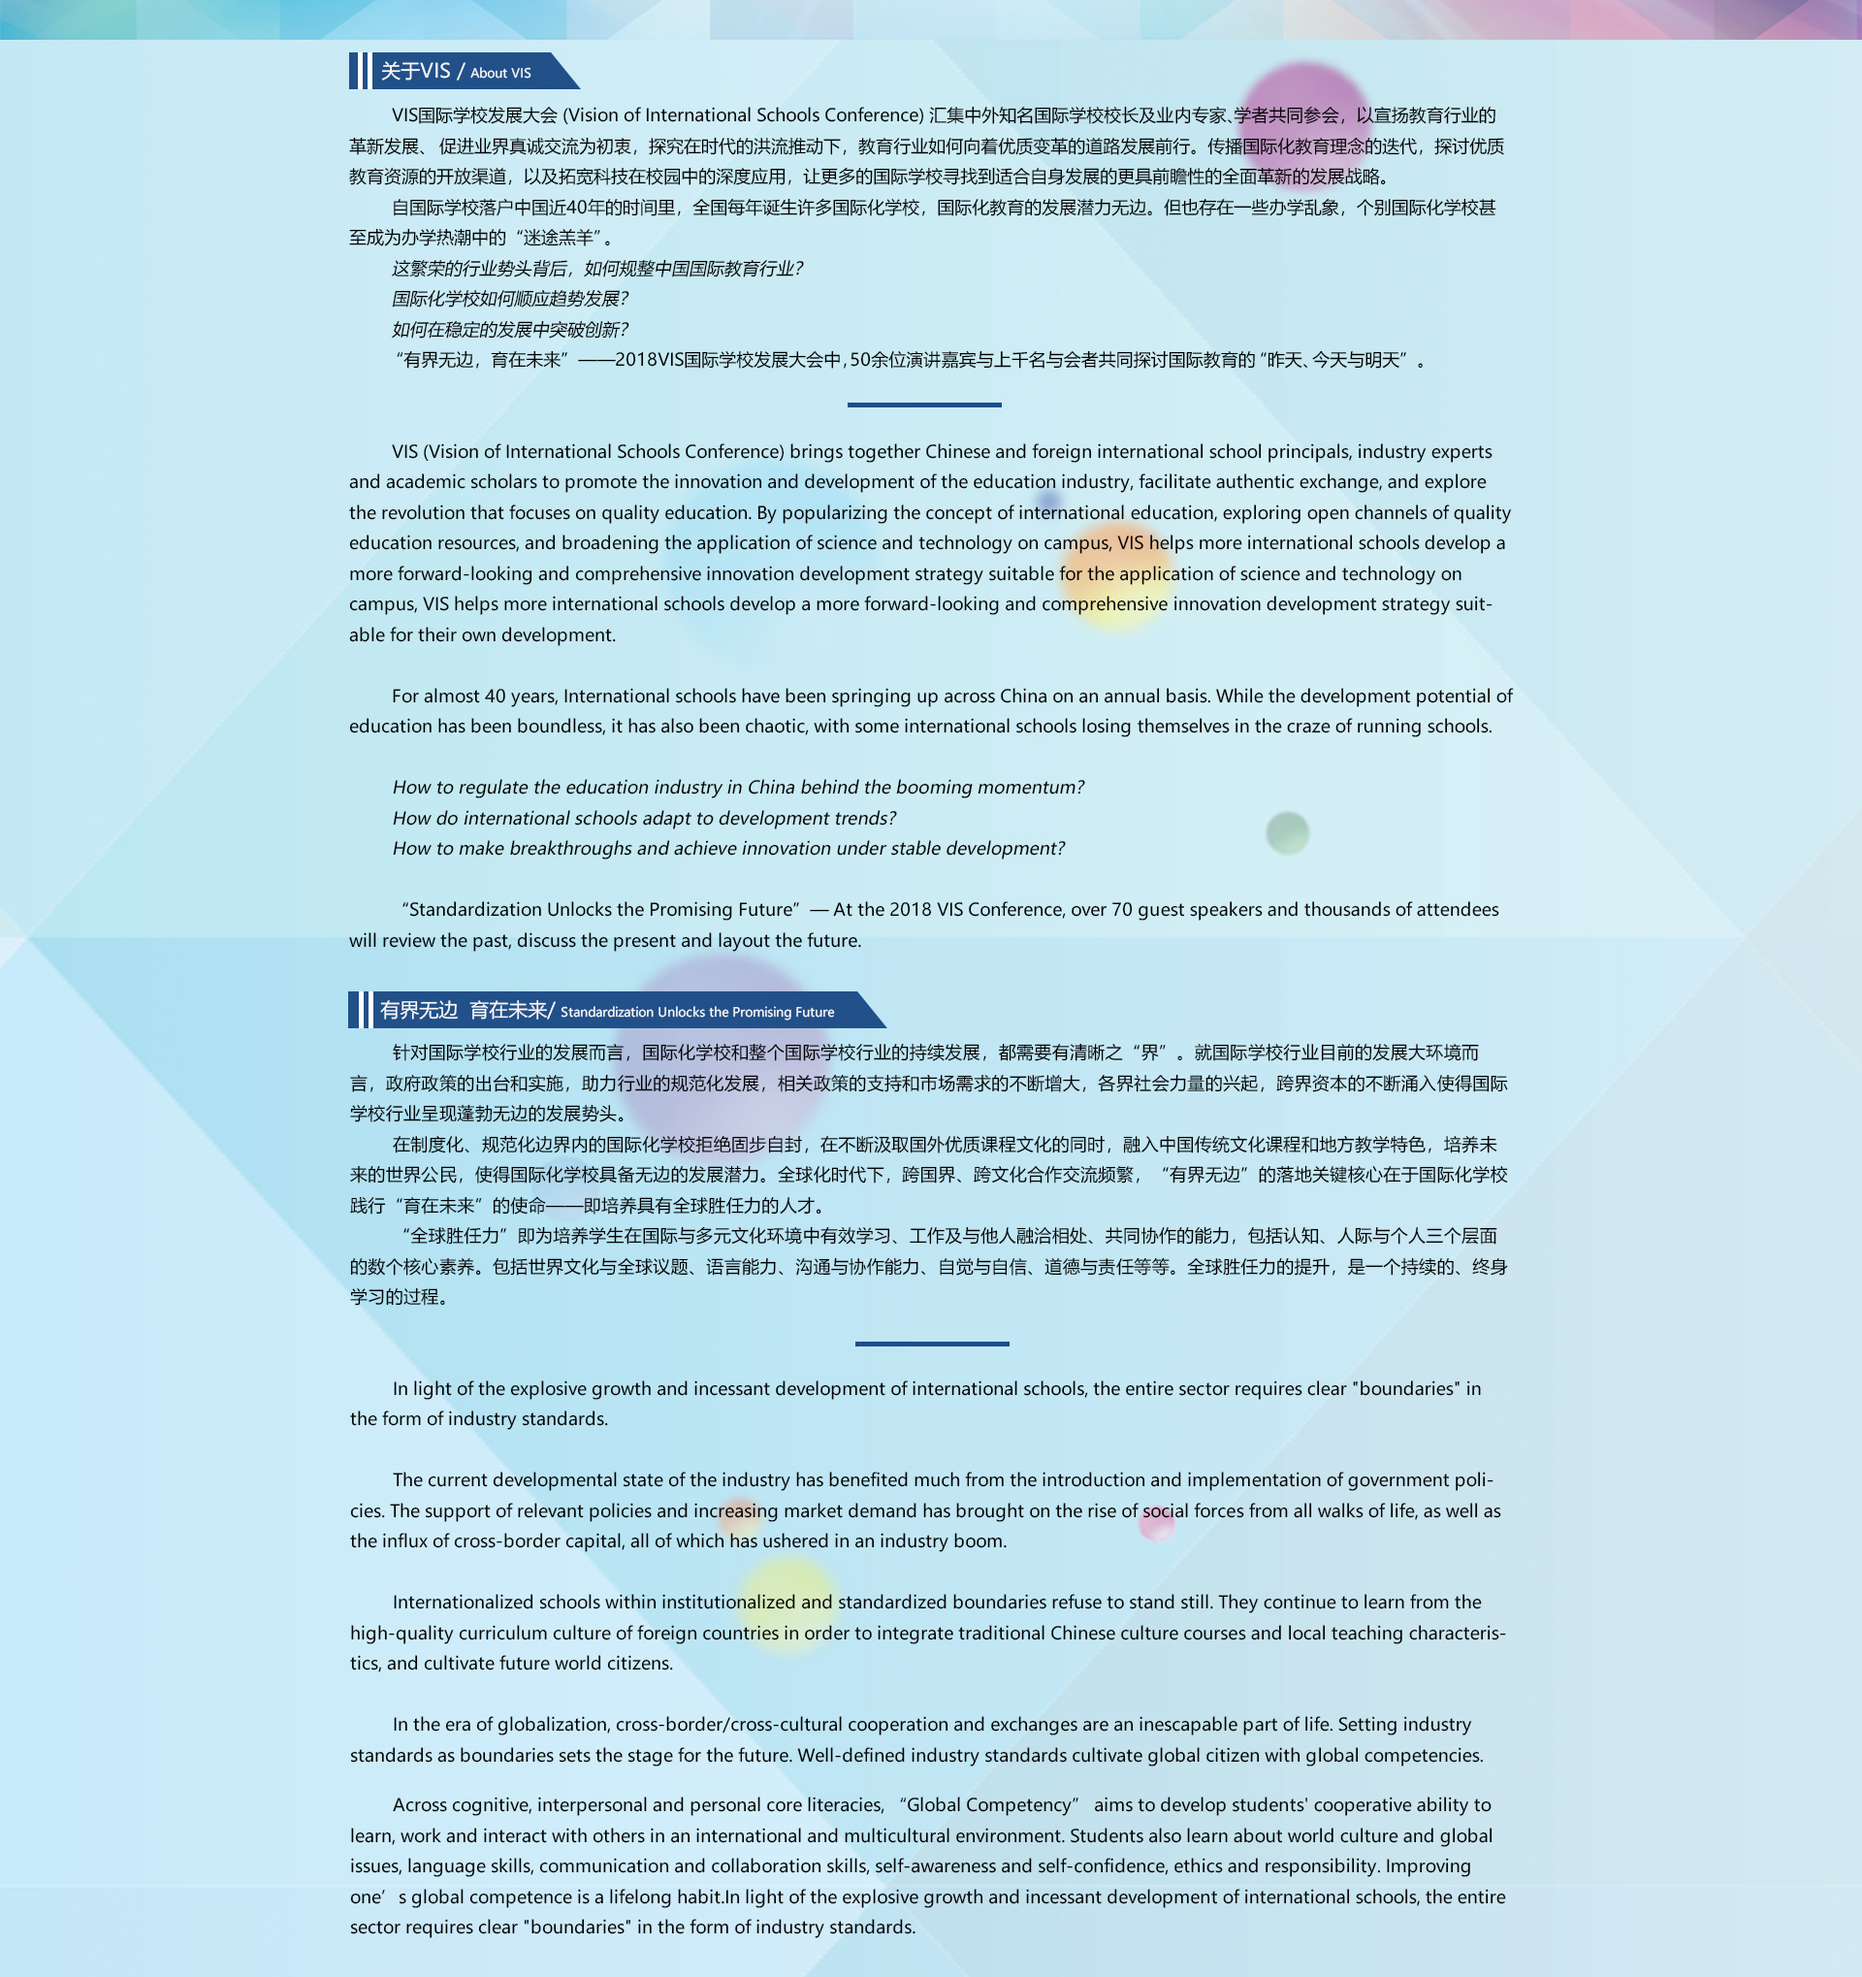
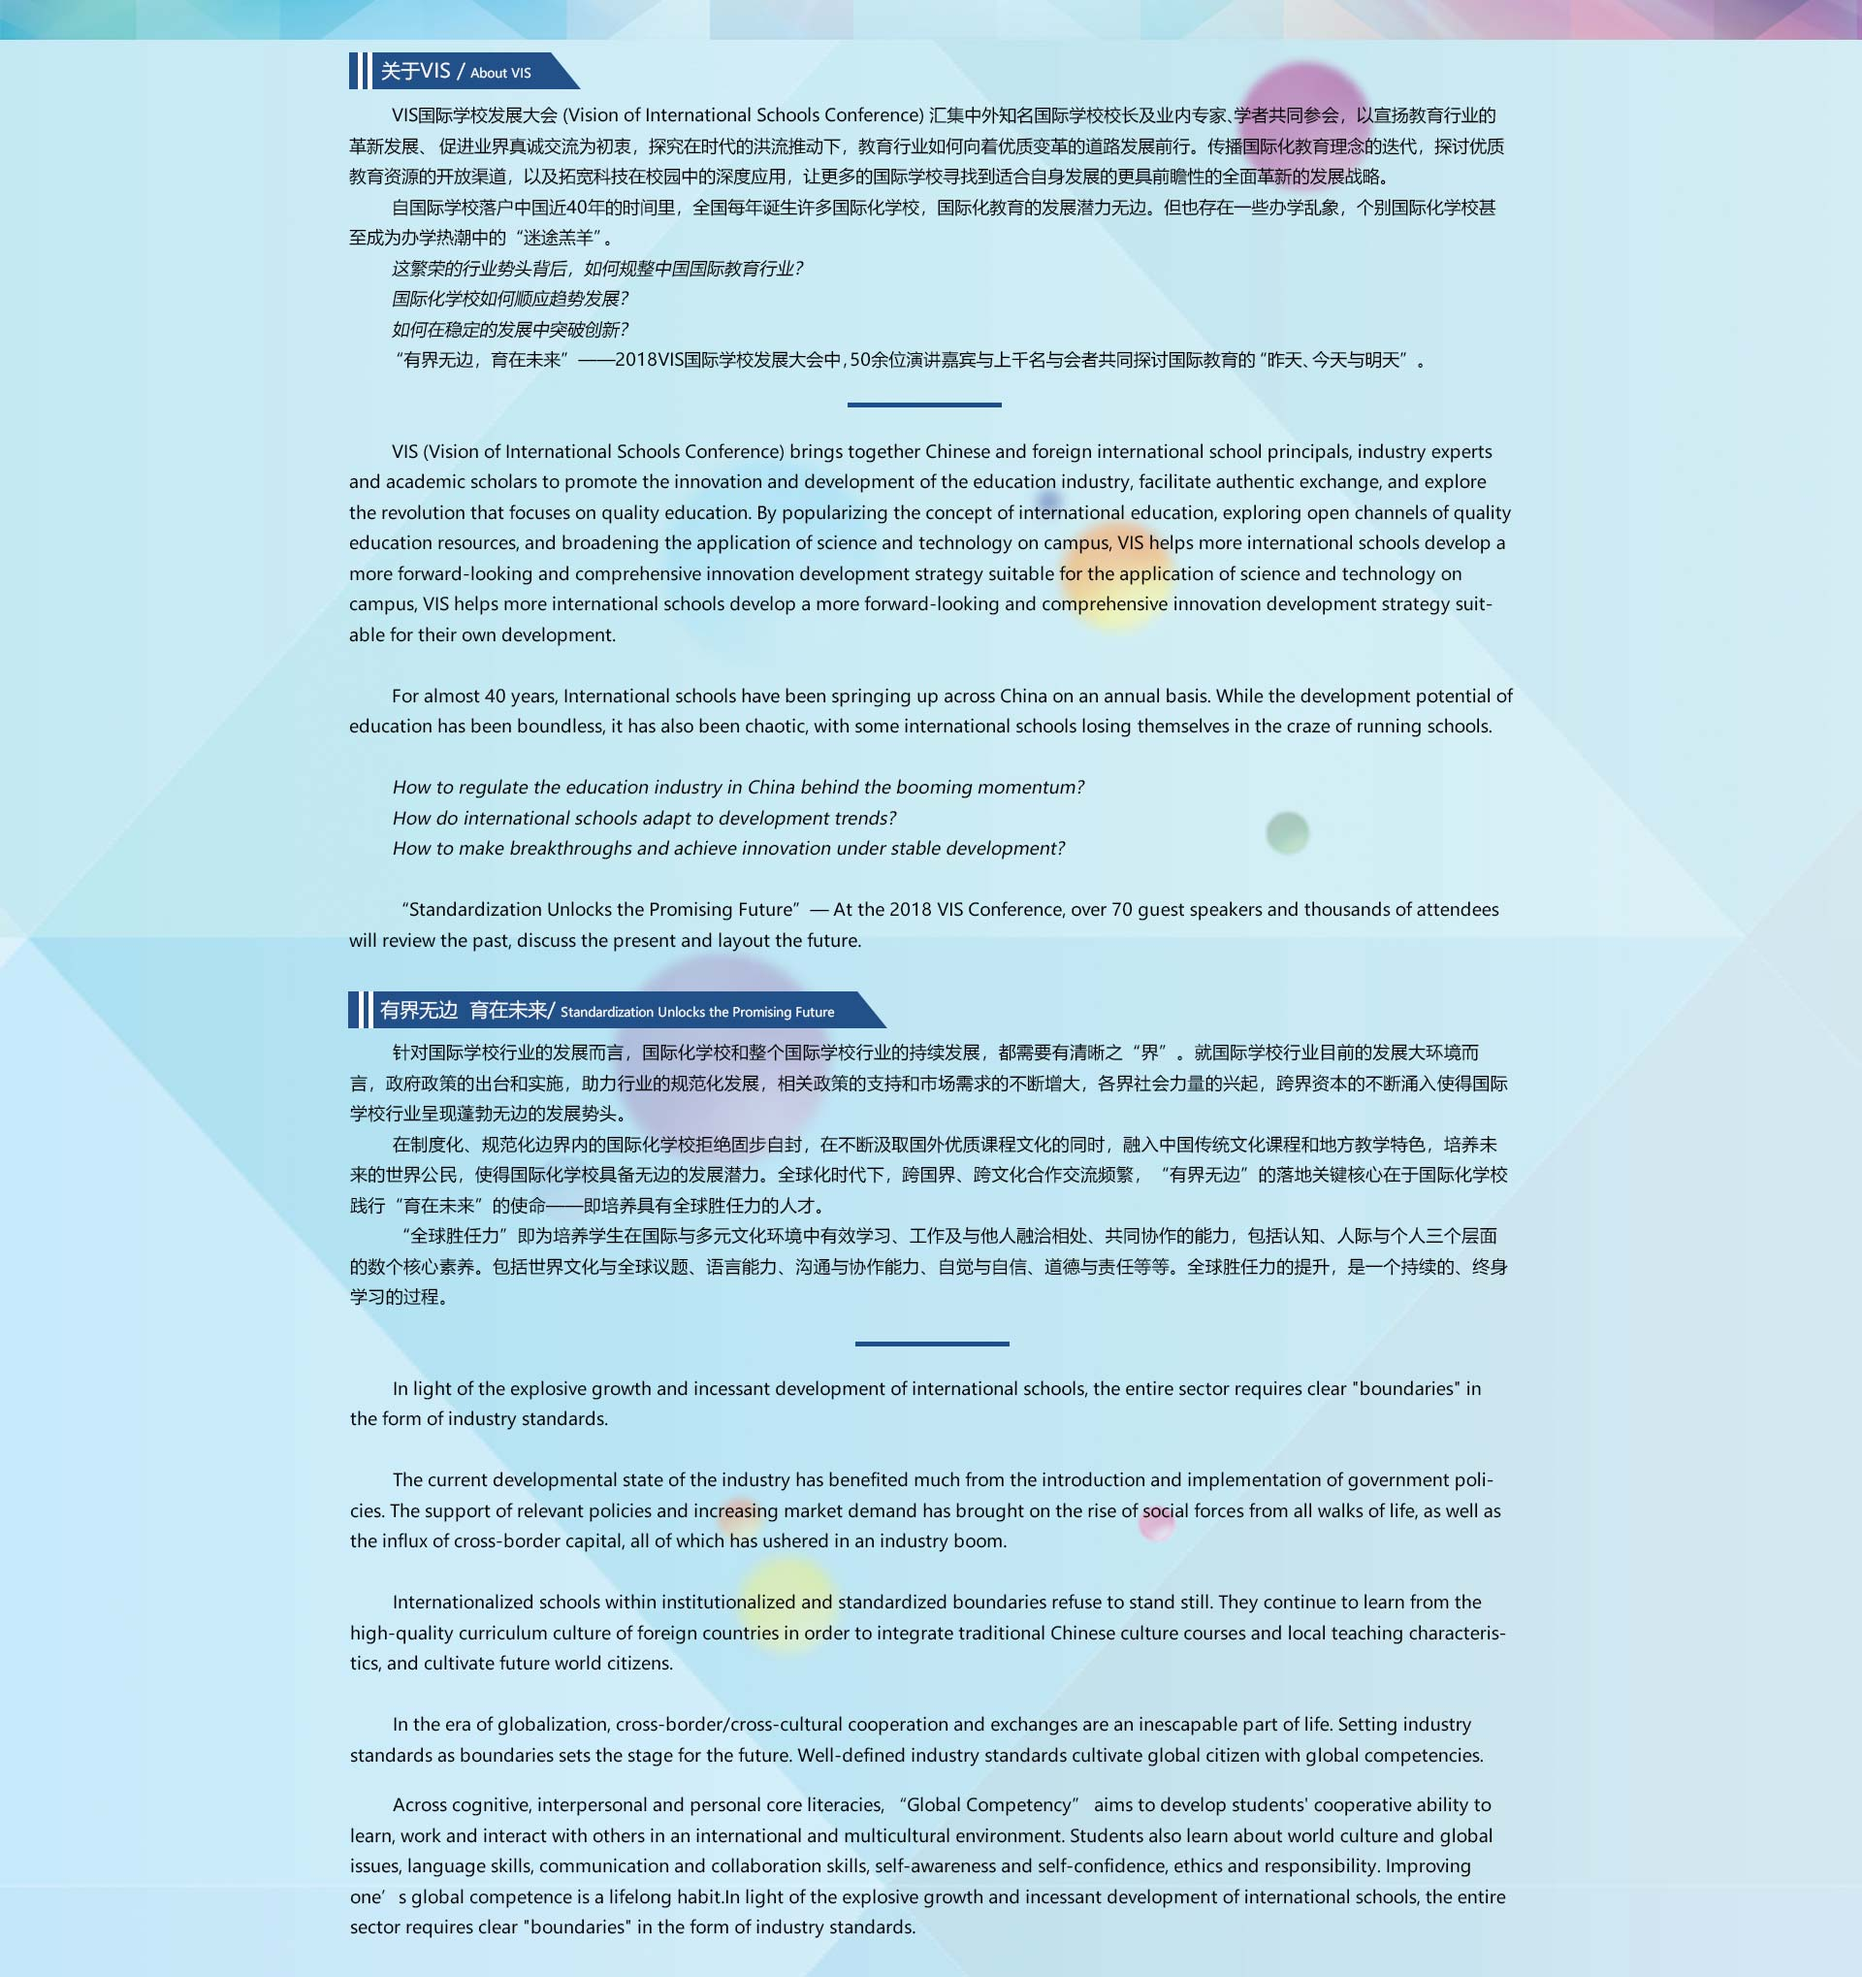
压缩vis图 vis移动端第二版

diff --git a/admin/activity/meeting/visM-01.html b/admin/activity/meeting/visM-01.html
@@ -1,0 +1,157 @@
+<!DOCTYPE html>
+<html lang="en">
+
+<head>
+    <meta charset="UTF-8">
+    <meta name="viewport" content="width=device-width, initial-scale=1.0">
+    <meta http-equiv="X-UA-Compatible" content="ie=edge">
+    <title>2018国际学校发展大会</title>
+    <link href="https://cdn.bootcss.com/bootstrap/3.3.7/css/bootstrap.min.css" rel="stylesheet">
+    <style>
+        .banner {
+            position: relative;
+            /* min-height: 600px; */
+            /* background: url('./img/visBanner.jpg') no-repeat; */
+            /* background-size: 100%; */
+        }
+        
+        .visApply {
+            position: relative;
+            appearance: none;
+            /* background: #f72359; */
+            background: #d32720;
+            padding: 10px 45px;
+            border: none;
+            color: white;
+            font-size: 18px;
+            cursor: pointer;
+            outline: none;
+            overflow: hidden;
+            border-radius: 100px;
+        }
+        
+        .visApply:focus,
+        .visApply:hover {
+            color: #FFF;
+        }
+        
+        .visApply span {
+            position: relative;
+        }
+        
+        .visApply::before {
+            --size: 0;
+            content: '';
+            position: absolute;
+            left: var(--x);
+            top: var(--y);
+            width: var(--size);
+            height: var(--size);
+            background: radial-gradient(circle closest-side, #1539db, transparent) !important;
+            transform: translate(-50%, -50%);
+            transition: width .2s ease, height .2s ease;
+        }
+        
+        .visApply:hover::before {
+            color: #FFF;
+            --size: 400px;
+        }
+        
+        .btnBox {
+            background: url("../image/visM/2.jpg") no-repeat;
+            background-size: 100% 100%;
+        }
+        
+        .banner {
+            padding-top: 60px;
+        }
+        
+        .banner,
+        .btnBox {
+            z-index: 2;
+        }
+        
+        header {
+            position: fixed;
+            width: 100%;
+            height: 60px;
+            line-height: 60px;
+            left: 0;
+            top: 0;
+            background: #FFF;
+            box-shadow: 0 4px 8px rgba(0, 0, 0, 0.28);
+            z-index: 999;
+        }
+        
+        ul {
+            float: right;
+            padding-left: 0;
+        }
+        
+        ul>li {
+            float: left;
+            list-style: none;
+            /* height: 40px;
+            line-height: 45px; */
+            margin-right: 20px;
+        }
+        
+        ul>li>a {
+            color: #777;
+            font-size: 16px;
+        }
+    </style>
+</head>
+
+<body>
+    <header>
+        <div class="container-fluid clearfix">
+            <a href="javascript:;">
+                <img src="../image/vis-logo.png" alt="" width="180">
+            </a>
+            <ul class="clearfix">
+                <li>
+                    <a href="#content04">议程</a>
+                </li>
+                <li>
+                    <a href="#content05">嘉宾</a>
+                </li>
+                <li>
+                    <a href="../visApply.html">购票</a>
+                </li>
+            </ul>
+        </div>
+    </header>
+    <div class="banner">
+        <img src="../image/visM/1.jpg" alt="" class="img-responsive">
+    </div>
+    <div class="btnBox text-center">
+        <button class="visApply"><span>立即报名</span></button>
+    </div>
+    <div class="content">
+        <img src="../image/visM/3.jpg" alt="" class="img-responsive">
+    </div>
+    <div class="content" id="content04">
+        <img src="../image/visM/4.jpg" alt="" class="img-responsive">
+    </div>
+    <div class="content" id="content05">
+        <img src="../image/visM/5.jpg" alt="" class="img-responsive">
+    </div>
+</body>
+
+</html>
+<script src="https://cdn.bootcss.com/jquery/3.3.1/jquery.min.js"></script>
+<!-- <script src="https://cdn.bootcss.com/bootstrap/4.1.1/js/bootstrap.min.js"></script> -->
+<script src="https://cdn.bootcss.com/bootstrap/3.3.7/js/bootstrap.min.js"></script>
+<script>
+    document.querySelector('.visApply').onmousemove = (e) => {
+        const x = e.pageX - e.target.offsetLeft
+        const y = e.pageY - e.target.offsetTop
+        e.target.style.setProperty('--x', `${ x }px`)
+        e.target.style.setProperty('--y', `${ y }px`)
+            // console.log(x, y)
+    }
+    $(".visApply").click(function() {
+        window.open("../visApply.html")
+    })
+</script>
